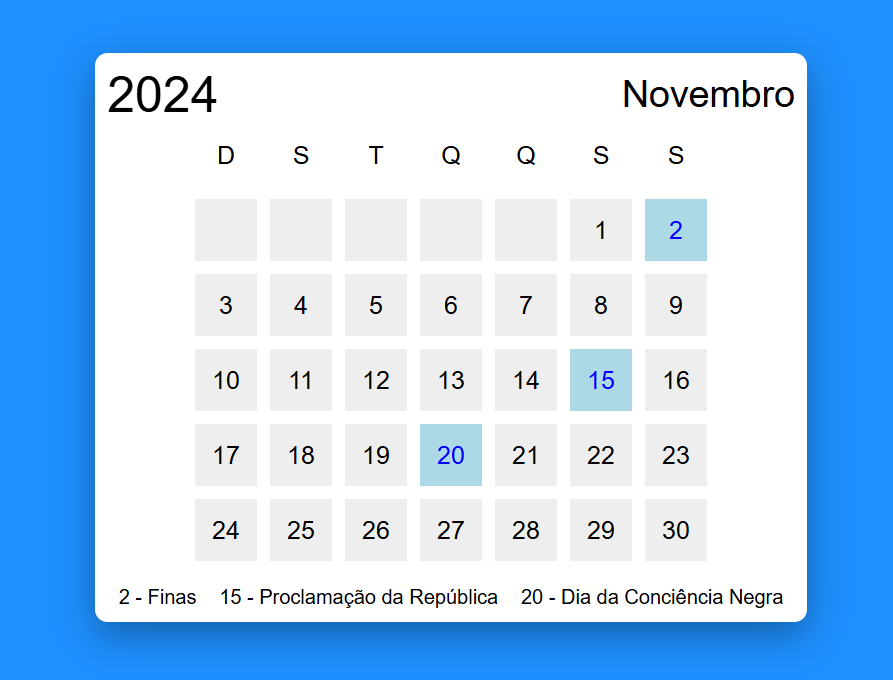
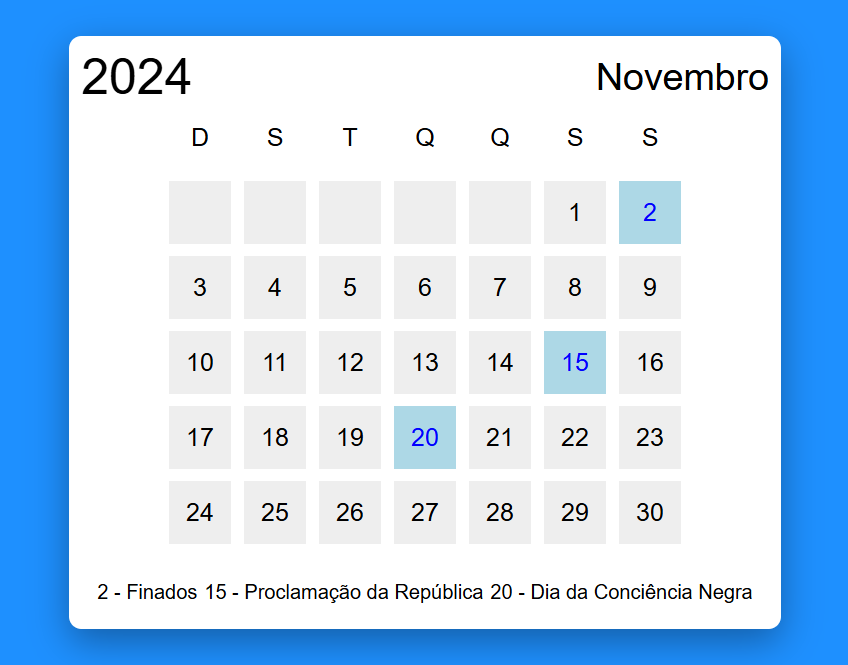
calendario

diff --git a/calendario/src/App.js b/calendario/src/App.js
@@ -62,7 +62,7 @@ function App() {
         <span>30</span>
       </div>
       <div className="Feriados">
-        <p>2 - Finas</p>
+        <p>2 - Finados</p>
         <p>15 - Proclamação da República</p>
         <p>20 - Dia da Conciência Negra</p>
       </div>

diff --git a/calendario/src/App.css b/calendario/src/App.css
@@ -86,6 +86,7 @@ body{
   align-items: center;
   justify-content: space-around;
   margin-top: 20px;
+  padding: 10px;
 }
 
 #marca{
